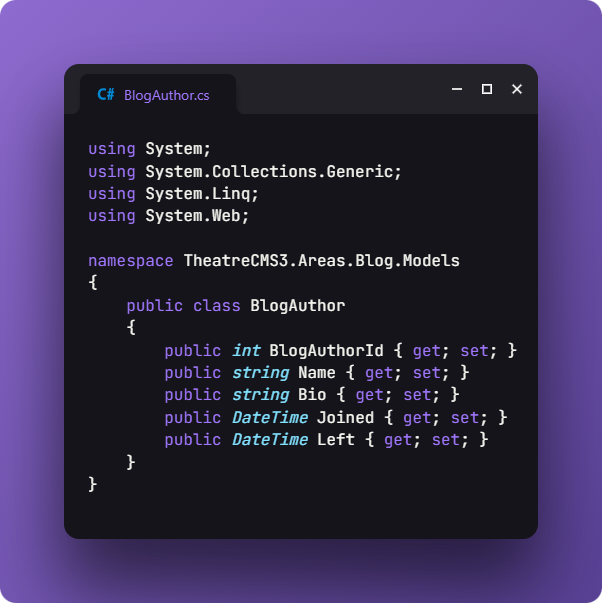
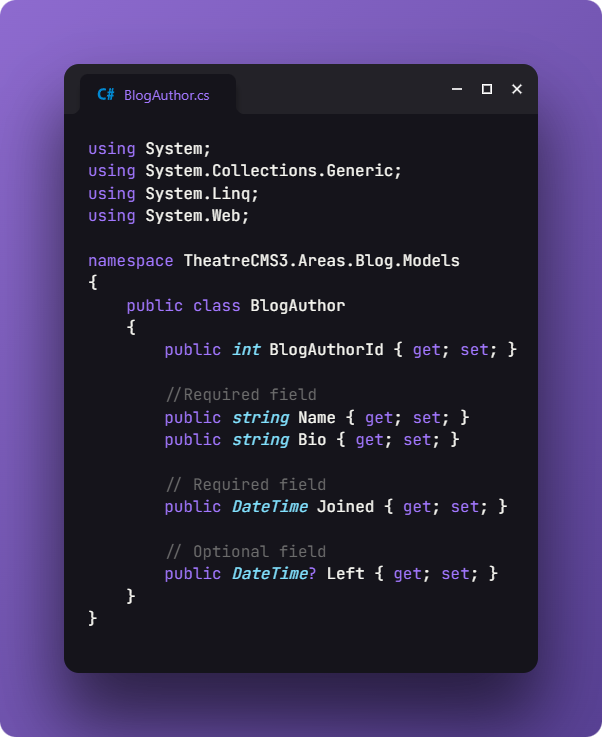
code-snippet update
updated model.png

diff --git a/README.md b/README.md
@@ -1,2 +1,36 @@
 # C-Sharp-Live-Project
 Collaboration on MVC web application in C# using Visual Studio, Azure DevOps, and Agile framework.
+
+<p>For this project I was tasked with assisting in the build of a local theatres user friendly webpage. I contributed the home page styling, creation of blog author model class, CRUD page scaffolding and styling. My focus was on creating reusable code that can be easily reviewed and added onto preventing future code conflict. Implemented best practices for functional interface and responsive styling.</p>
+
+<p>Usign guidelines I styled the homepage spotlighting featured performances including a sidebar highlighting sponsors and featuring a donation button. Next I created the blog author model class and updated the database using ASP.NET, ensuring proper design. I then scaffolded the CRUD page designs using MVC framework. Using bootstrap and custom classes I styled the pages with a cohesive design. Applying bootstrap cards to display blog author information and CRUD functionality.</p>
+
+<h3>Project Stories</h3>
+<ol>
+    <li><a href="#home">Home Page Styling</a></li>
+    <li><a href="#model">Model Class Creation</a></li>
+    <li><a href="#crud">CRUD</a></li>
+    <li><a href="#part1">Blog Author Styling Pt. 1</a></li>
+    <li><a href="#part2">Blog Author Styling Pt. 2</a></li>
+    <li><a href="#skills">Additional Skills</a></li>
+</ol>
+
+<h3 id="home">Home Page Styling</h3>
+<p>Home page was styled using flex box along with percentage based scaling to create a responsive page design Utilizing given color palette and content a flexbox layout spotlights theatre productions, sponsors, donation button, and company acknowledgements. Code is reusable but also prevents code conflict.</p>
+<img src="code-snippets/home-page-css.png">
+<a href="code-snippets/home-page-html.png">Home Page HTML</a>
+
+<h3 id="model">Model Class Creation</h3>
+<p></p>
+<img src="">
+
+<h3 id="crud">CRUD</h3>
+<img src="">
+
+<h3 id="part1">Blog Author Styling Pt. 1</h3>
+<img src="">
+
+<h3 id="part2">Blog Author Styling Pt. 2</h3>
+<img src="">
+
+<h3 id="skills">Additional Skills</h3>
